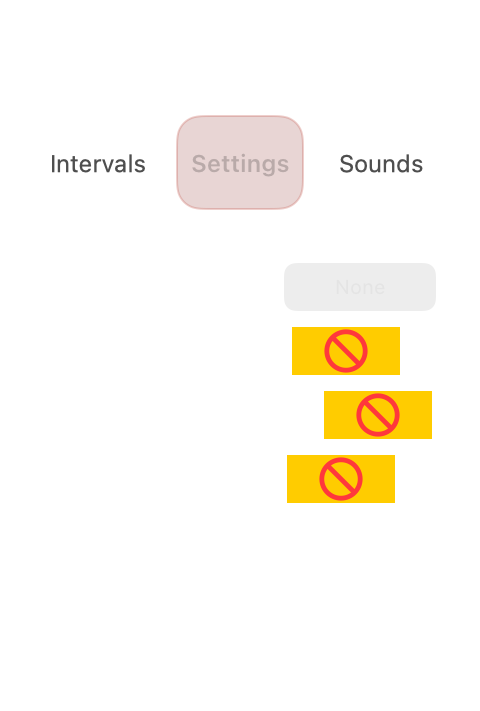
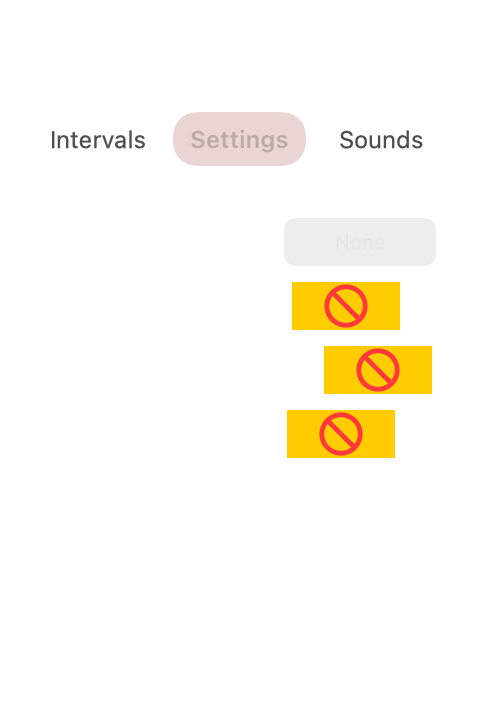
Restore original Liquid Glass tabs

diff --git a/TomatoBar/View.swift b/TomatoBar/View.swift
@@ -198,19 +198,8 @@ private enum ChildView {
 
 private struct GlassTabBar: View {
     @Binding var selection: ChildView
-    @Namespace private var selectionNamespace
 
     var body: some View {
-        if #available(macOS 26.0, *) {
-            GlassEffectContainer {
-                tabs
-            }
-        } else {
-            tabs
-        }
-    }
-
-    private var tabs: some View {
         HStack(spacing: 4) {
             tab(.intervals, title: NSLocalizedString("TBPopoverView.intervals.label",
                                                      comment: "Intervals label"))
@@ -230,32 +219,35 @@ private struct GlassTabBar: View {
                 selection = childView
             }
         } label: {
-            ZStack {
-                if selection == childView {
-                    selectedTabBackground
-                        .matchedGeometryEffect(id: "selectedTab", in: selectionNamespace)
-                }
-
-                Text(title)
-                    .font(.system(size: 12, weight: selection == childView ? .semibold : .regular))
-                    .foregroundColor(selection == childView ? .primary : .primary.opacity(0.82))
-                    .lineLimit(1)
-                    .frame(maxWidth: .infinity)
-                    .padding(.vertical, 6)
-            }
-            .contentShape(RoundedRectangle(cornerRadius: 12, style: .continuous))
+            Text(title)
+                .font(.system(size: 12, weight: selection == childView ? .semibold : .regular))
+                .foregroundColor(selection == childView ? .primary : .primary.opacity(0.82))
+                .lineLimit(1)
+                .frame(maxWidth: .infinity)
+                .padding(.vertical, 6)
+                .contentShape(RoundedRectangle(cornerRadius: 12, style: .continuous))
         }
         .buttonStyle(.plain)
+        .modifier(GlassTabButton(isSelected: selection == childView))
     }
+}
 
-    private var selectedTabBackground: some View {
-        RoundedRectangle(cornerRadius: 12, style: .continuous)
-            .fill(Color(red: 0.55, green: 0.18, blue: 0.16).opacity(0.2))
-            .overlay(
-                RoundedRectangle(cornerRadius: 12, style: .continuous)
-                    .stroke(Color(red: 0.75, green: 0.32, blue: 0.28).opacity(0.28), lineWidth: 1)
-            )
-            .padding(2)
+private struct GlassTabButton: ViewModifier {
+    let isSelected: Bool
+
+    @ViewBuilder
+    func body(content: Content) -> some View {
+        if #available(macOS 26.0, *) {
+            content
+                .background(isSelected ? Color(red: 0.55, green: 0.18, blue: 0.16).opacity(0.2) : Color.clear)
+                .cornerRadius(12)
+                .glassEffect(isSelected ? .regular.interactive() : .identity,
+                             in: .rect(cornerRadius: 12))
+        } else {
+            content
+                .background(isSelected ? Color(red: 0.55, green: 0.18, blue: 0.16).opacity(0.2) : Color.clear)
+                .cornerRadius(12)
+        }
     }
 }
 
